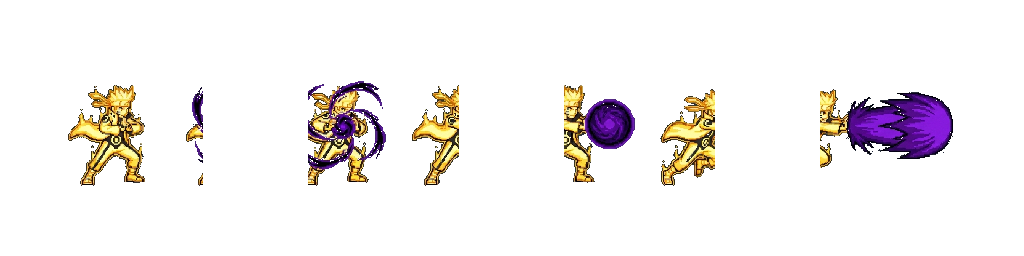
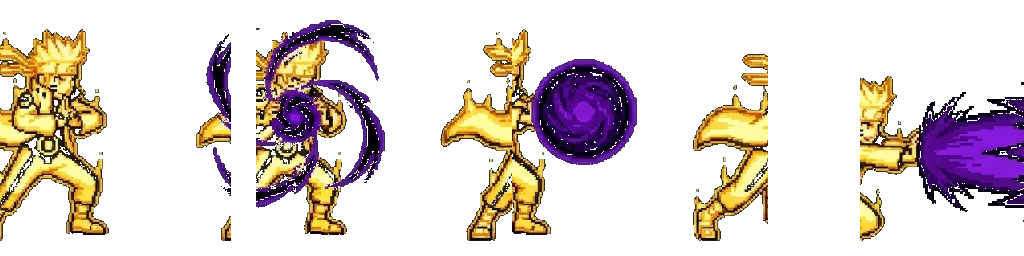
fix(akasha): peaufinage anims arcade — pieds ancrés + boucle propre
- corrige le sautillement : chaque pose est calée par les PIEDS (X fixe + base fixe)
  au lieu d'être centrée par cellule → le perso reste planté, seule l'attaque s'étend
- échelle uniforme (tailles cohérentes entre frames) ; détourage du fond conservé
- timing de boucle revu (garde tenue = reset propre, gros temps sur le tir)

diff --git a/scripts/build-akasha-arcade.py b/scripts/build-akasha-arcade.py
@@ -16,9 +16,17 @@ BASE = os.path.join(ROOT, 'public', 'images', 'akasha', 'arcade', 'naruto')
 SRC = os.path.join(BASE, 'src')
 TILE = 256
 NFRAMES = 4
-# timing par frame (ms) : garde courte, charge, GROS temps sur le tir, contre-coup
-DUR = [220, 170, 380, 260]
+# timing par frame (ms) : garde tenue (respiration/reset pour une boucle propre), charge
+# rapide, GROS temps sur le tir, contre-coup.
+DUR = [460, 150, 430, 240]
 MOVES = ['rasengan', 'rasenshuriken', 'multiclonage', 'bijudama']
+
+
+# Ancrage : les pieds sont plantés à ce point sur chaque tuile (X décalé à gauche pour
+# laisser la place à l'attaque qui part vers la droite ; base un peu au-dessus du bas).
+ANCHOR_X = 0.40
+ANCHOR_Y = 0.94
+FIT_H = 0.86  # le perso occupe ~86% de la hauteur de tuile
 
 
 def keybg(im):
@@ -38,19 +46,33 @@ def keybg(im):
     return im
 
 
+def feet(cell):
+    """(centre X des pieds, base Y) à partir des 8% inférieurs du contenu détouré."""
+    bb = cell.getbbox()
+    if not bb:
+        return cell.width // 2, cell.height - 1, 0
+    l, t, r, b = bb
+    px = cell.load()
+    xs = [x for y in range(max(t, b - max(4, int((b - t) * 0.08))), b) for x in range(l, r) if px[x, y][3] > 0]
+    fc = (min(xs) + max(xs)) // 2 if xs else (l + r) // 2
+    return fc, b, (b - t)
+
+
 def slice_strip(path):
     im = Image.open(path).convert('RGBA')
     w, h = im.size
     fw = w // NFRAMES
+    cells = [keybg(im.crop((i * fw, 0, (i + 1) * fw, h))) for i in range(NFRAMES)]
+    meta = [feet(c) for c in cells]
+    maxh = max((m[2] for m in meta), default=h) or h
+    s = (TILE * FIT_H) / maxh                          # échelle UNIFORME → tailles cohérentes
+    ax, ay = round(TILE * ANCHOR_X), round(TILE * ANCHOR_Y)
     frames = []
-    for i in range(NFRAMES):
-        cell = im.crop((i * fw, 0, (i + 1) * fw, h))
-        # contain dans une tuile carrée (échelle uniforme → mouvement préservé entre frames)
-        s = min(TILE / cell.width, TILE / cell.height)
-        cell = cell.resize((max(1, round(cell.width * s)), max(1, round(cell.height * s))), Image.NEAREST)
+    for cell, (fc, fb, _) in zip(cells, meta):
+        sc = cell.resize((max(1, round(cell.width * s)), max(1, round(cell.height * s))), Image.NEAREST)
         tile = Image.new('RGBA', (TILE, TILE), (0, 0, 0, 0))
-        tile.alpha_composite(cell, ((TILE - cell.width) // 2, (TILE - cell.height) // 2))
-        frames.append(keybg(tile))
+        tile.alpha_composite(sc, (ax - round(fc * s), ay - round(fb * s)))  # pieds plantés à (ax, ay)
+        frames.append(tile)
     return frames
 
 
